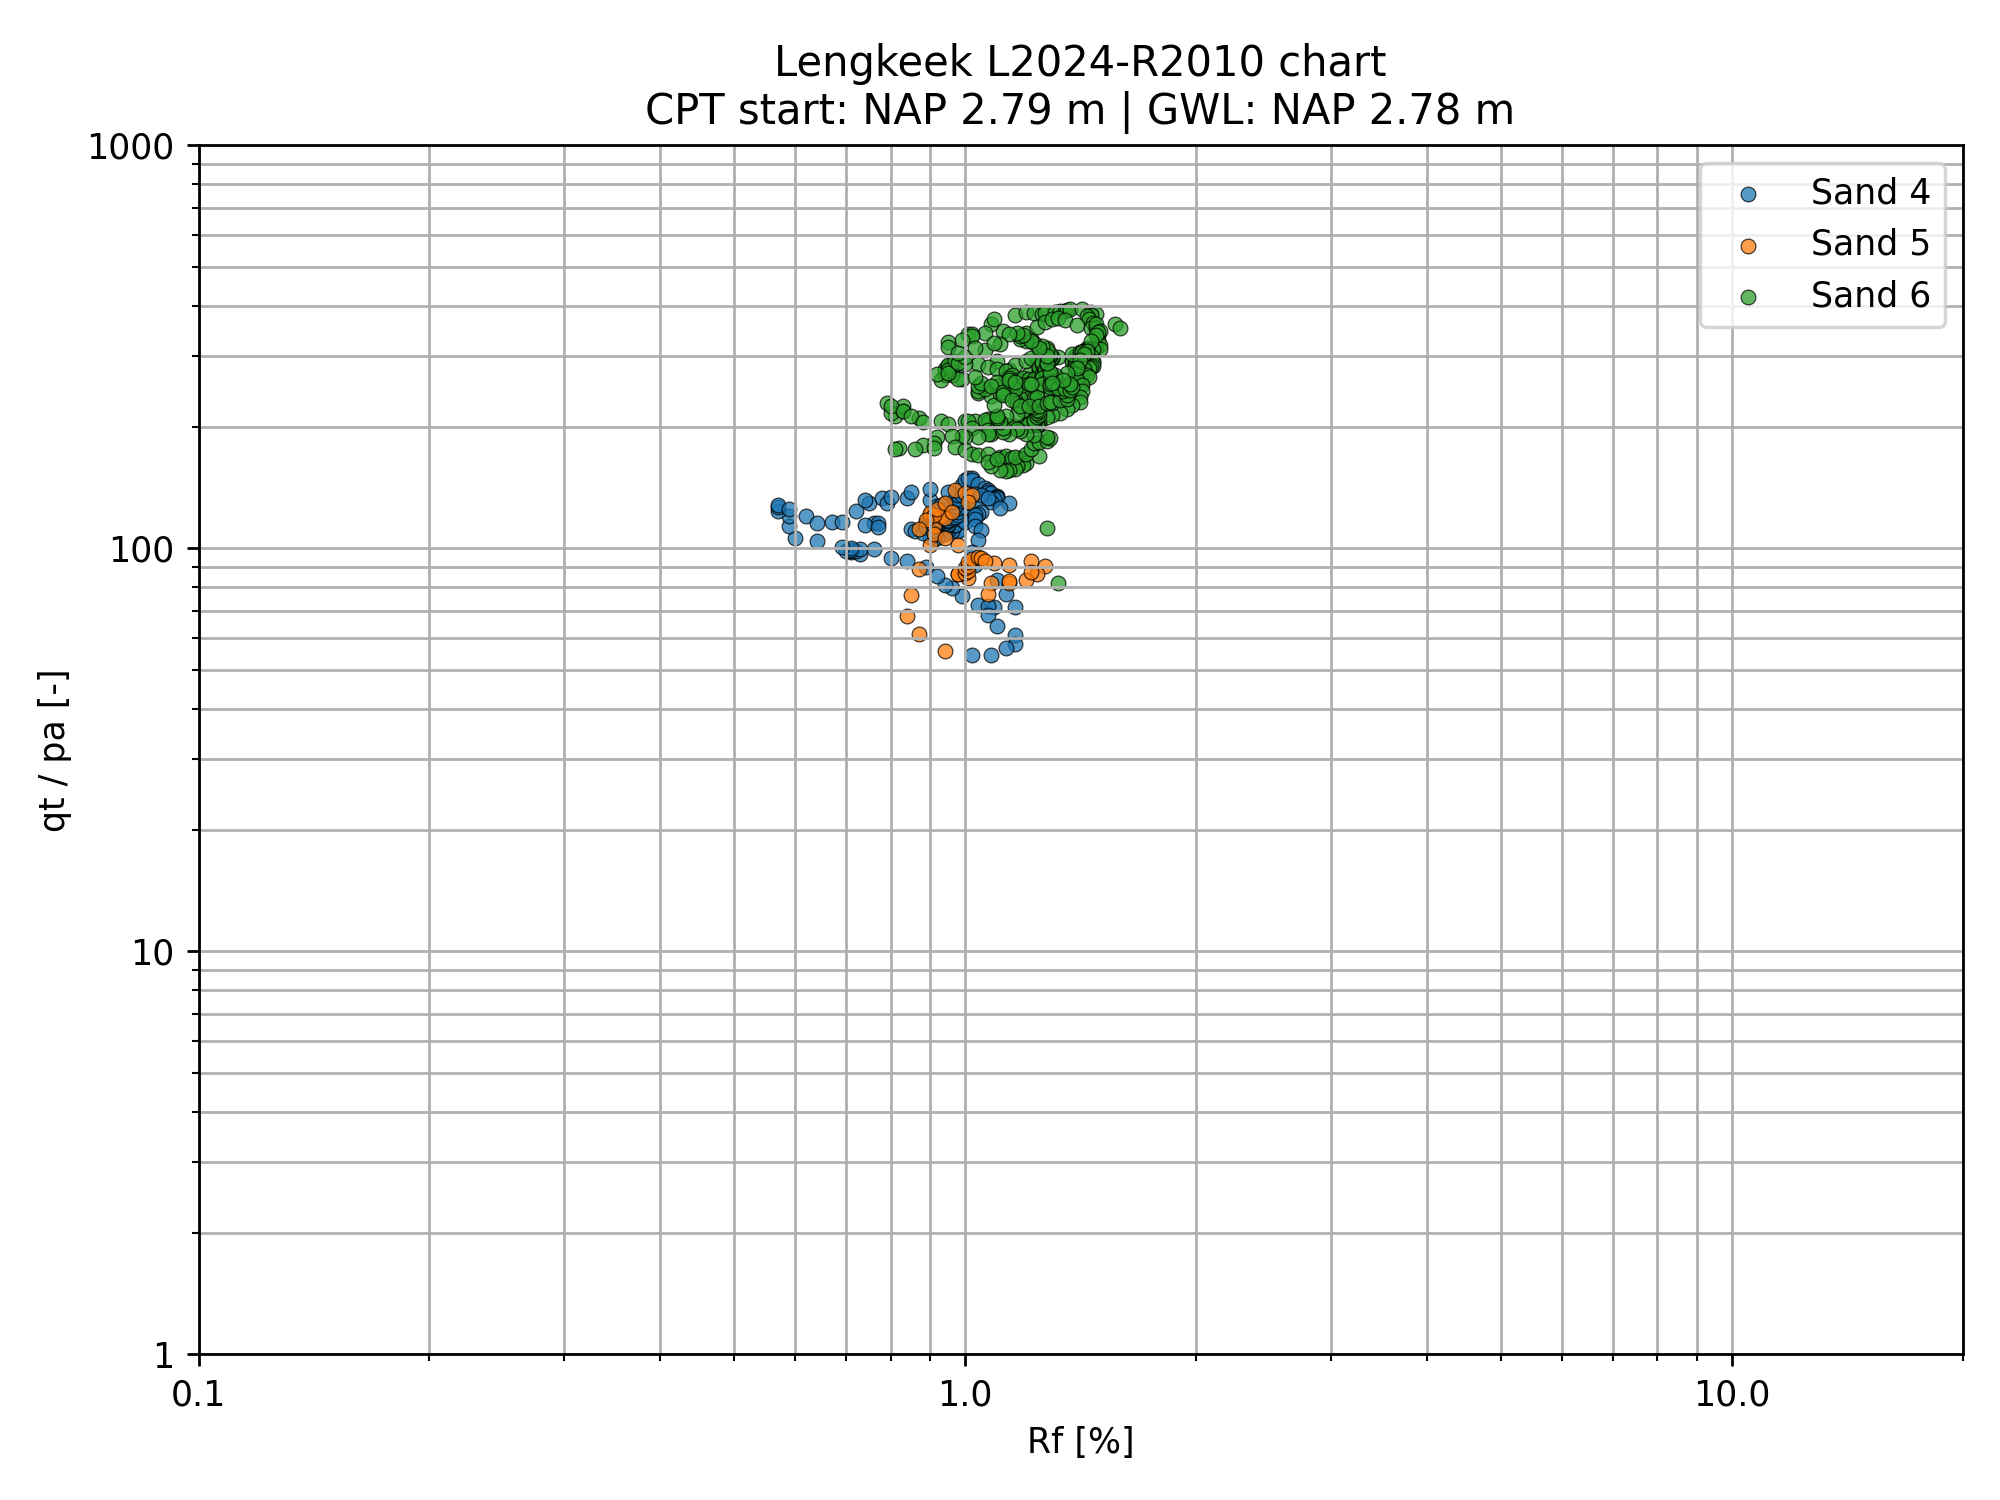
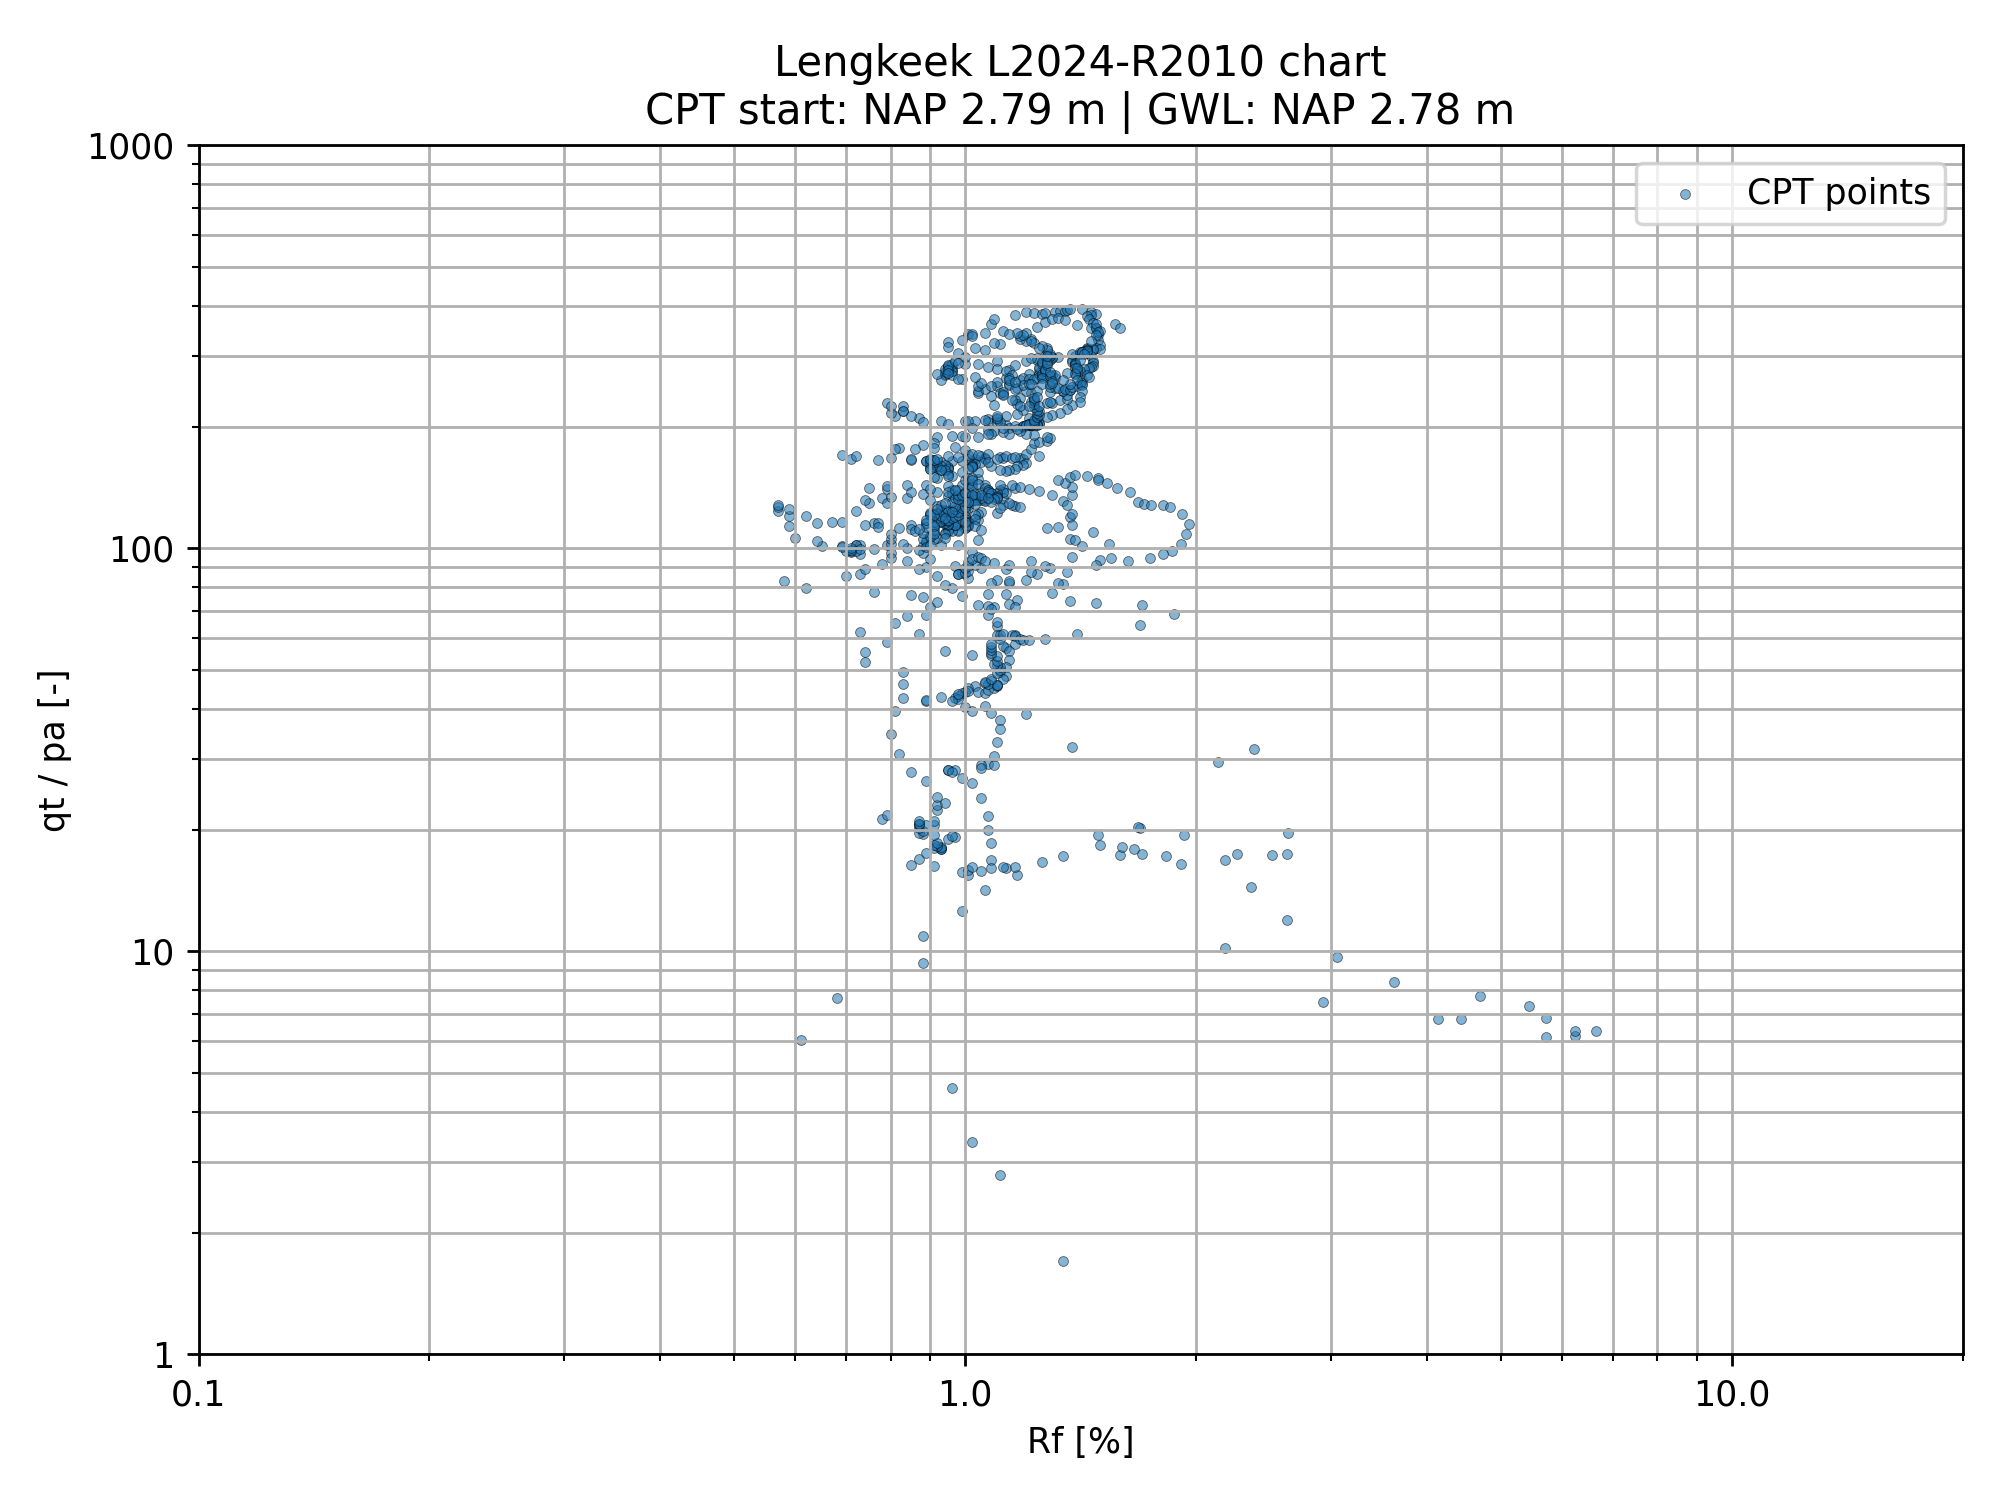
wezep_finished

diff --git a/lengkeek_vs_code/main.py b/lengkeek_vs_code/main.py
@@ -38,7 +38,7 @@ import json
 # GEF_FILE = r"C:\AA_Thesis\CPT_Measurements\Campus-Zuid\Pre-boren\S1022749_CPTU1-4.gef"
 # GEF_FILE = r"C:\AA_Thesis\CPT_Measurements\Campus-Zuid\After-boren\S1022749_CPTU2-2.gef"
 # GEF_FILE = r"C:\AA_Thesis\CPT_Measurements\Campus-Zuid\After-boren\S1022749_CPTU2-4.gef"'
-GEF_FILE = r"C:\AA_Thesis\CPT_Measurements\Wezep\2300654_S11.gef"
+GEF_FILE = r"C:\AA_Thesis\CPT_Measurements\Wezep\2300654_S13.gef"
 
 
 
@@ -101,7 +101,7 @@ USE_BQT = True
 # "layer_ids"
 #     Plot only points whose layer_id is listed in SELECTED_LAYER_IDS.
 #
-PLOT_SELECTION_MODE = "layer_ids"
+PLOT_SELECTION_MODE = "all"
 
 # Used only when PLOT_SELECTION_MODE = "soil_types".
 SELECTED_SOIL_TYPES = [
